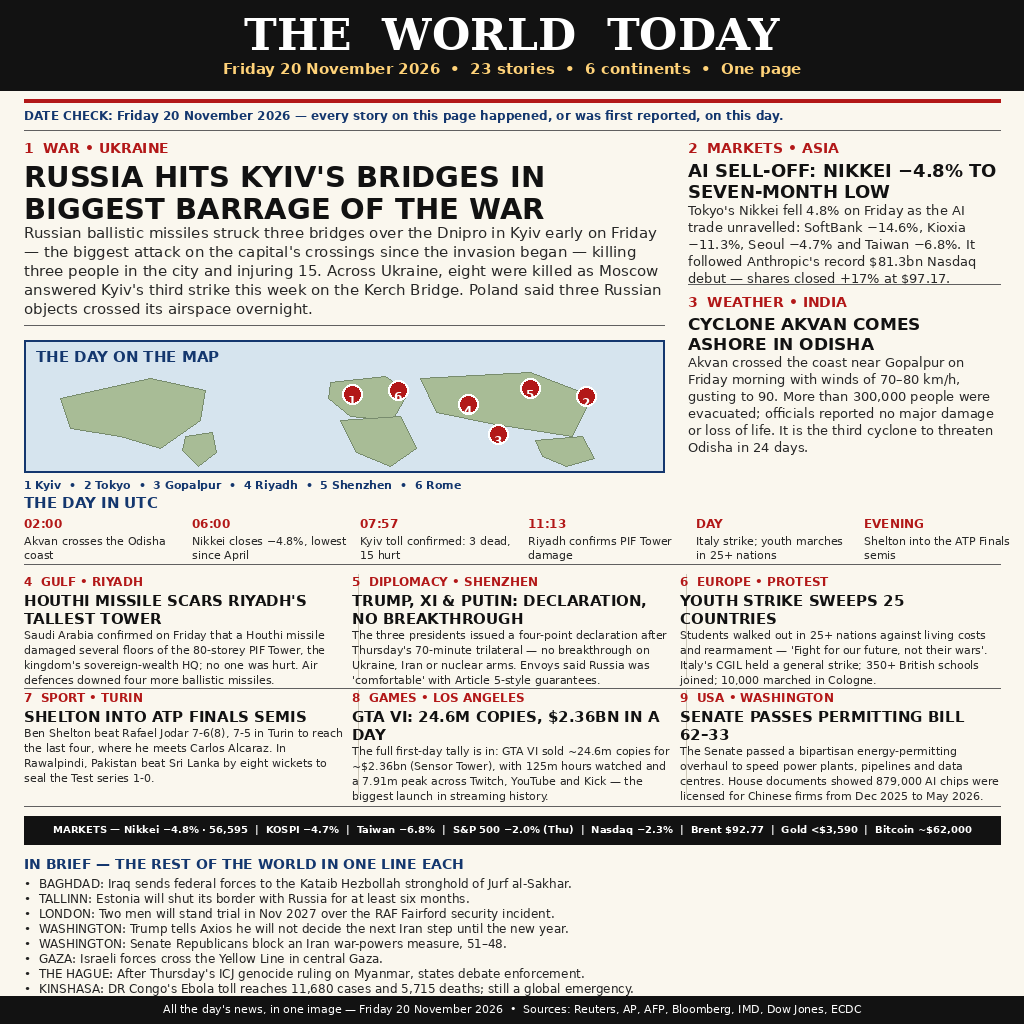
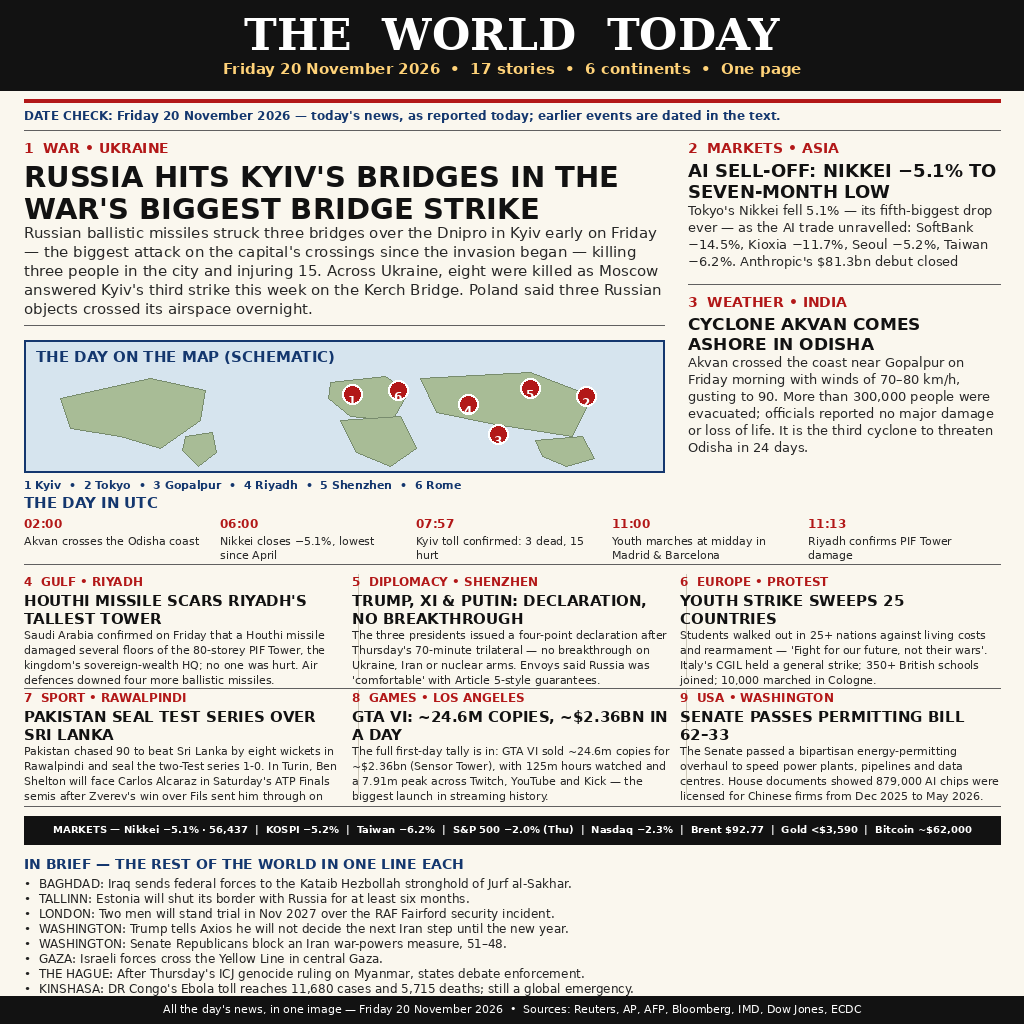
Fix QA findings: Nikkei close -5.1% (56,437), KOSPI -5.2%, Taiwan -6.2%; Pakistan sport lead; honest date check; 17 stories

diff --git a/generate.py b/generate.py
@@ -85,11 +85,11 @@ d = p.d
 # ---------------------------------------------------------------- masthead
 d.rectangle([0, 0, W, 90], fill=INK)
 p.text(W // 2, 8, "THE  WORLD  TODAY", font(SERIF_B, 44), (255, 255, 255), "ma")
-p.text(W // 2, 60, "Friday 20 November 2026  •  23 stories  •  6 continents  •  One page",
+p.text(W // 2, 60, "Friday 20 November 2026  •  17 stories  •  6 continents  •  One page",
        font(SANS_B, 15), (255, 210, 120), "ma")
 p.rule(24, W - 24, 100, RED, 4)
-p.text(24, 108, "DATE CHECK: Friday 20 November 2026 — every story on this page happened, "
-                 "or was first reported, on this day.",
+p.text(24, 108, "DATE CHECK: Friday 20 November 2026 — today's news, as reported today; "
+                 "earlier events are dated in the text.",
        font(SANS_B, 12), BLUE)
 p.rule(24, W - 24, 130, GREY, 1)
 
@@ -97,7 +97,7 @@ p.rule(24, W - 24, 130, GREY, 1)
 y = 140
 y = p.kicker(24, y, "1  WAR • UKRAINE")
 y = p.story(24, y, 640,
-            "RUSSIA HITS KYIV'S BRIDGES IN BIGGEST BARRAGE OF THE WAR",
+            "RUSSIA HITS KYIV'S BRIDGES IN THE WAR'S BIGGEST BRIDGE STRIKE",
             "Russian ballistic missiles struck three bridges over the Dnipro in Kyiv early "
             "on Friday — the biggest attack on the capital's crossings since the invasion "
             "began — killing three people in the city and injuring 15. Across Ukraine, "
@@ -110,11 +110,11 @@ rx = 688
 ry = 140
 ry = p.kicker(rx, ry, "2  MARKETS • ASIA")
 ry = p.story(rx, ry, 312,
-             "AI SELL-OFF: NIKKEI −4.8% TO SEVEN-MONTH LOW",
-             "Tokyo's Nikkei fell 4.8% on Friday as the AI trade unravelled: SoftBank "
-             "−14.6%, Kioxia −11.3%, Seoul −4.7% and Taiwan −6.8%. It followed "
-             "Anthropic's record $81.3bn Nasdaq debut — shares closed +17% at $97.17.",
-             hsize=18, bsize=13, max_body=5)
+             "AI SELL-OFF: NIKKEI −5.1% TO SEVEN-MONTH LOW",
+             "Tokyo's Nikkei fell 5.1% — its fifth-biggest drop ever — as the AI trade "
+             "unravelled: SoftBank −14.5%, Kioxia −11.7%, Seoul −5.2%, Taiwan −6.2%. "
+             "Anthropic's $81.3bn debut closed +17%.",
+             hsize=18, bsize=13, max_body=4)
 p.rule(rx, W - 24, 284, GREY, 1)
 ry = p.kicker(rx, 294, "3  WEATHER • INDIA")
 p.story(rx, ry, 312,
@@ -128,7 +128,7 @@ p.story(rx, ry, 312,
 # ---------------------------------------------------------------- map band
 my = 340
 d.rectangle([24, my, 664, my + 132], fill=MAP_BG, outline=BLUE, width=2)
-p.text(36, my + 8, "THE DAY ON THE MAP", font(SANS_B, 15), BLUE)
+p.text(36, my + 8, "THE DAY ON THE MAP (SCHEMATIC)", font(SANS_B, 15), BLUE)
 land_polys = [
     [(60, 398), (150, 378), (205, 390), (200, 420), (160, 448), (120, 436), (70, 428)],
     [(185, 436), (212, 432), (216, 452), (198, 466), (182, 450)],
@@ -158,20 +158,19 @@ ty = 494
 p.text(24, ty, "THE DAY IN UTC", font(SANS_B, 15), BLUE)
 timeline = [
     ("02:00", "Akvan crosses the Odisha coast"),
-    ("06:00", "Nikkei closes −4.8%, lowest since April"),
+    ("06:00", "Nikkei closes −5.1%, lowest since April"),
     ("07:57", "Kyiv toll confirmed: 3 dead, 15 hurt"),
+    ("11:00", "Youth marches at midday in Madrid & Barcelona"),
     ("11:13", "Riyadh confirms PIF Tower damage"),
-    ("DAY", "Italy strike; youth marches in 25+ nations"),
-    ("EVENING", "Shelton into the ATP Finals semis"),
 ]
 xx = 24
 for t, label in timeline:
     p.text(xx, ty + 22, t, font(SANS_B, 12), RED)
     ly = ty + 40
-    for ln in p.wrap(label, font(SANS, 11), 158):
+    for ln in p.wrap(label, font(SANS, 11), 185):
         p.text(xx, ly, ln, font(SANS, 11), (40, 40, 40))
         ly += 14
-    xx += 168
+    xx += 196
 p.rule(24, W - 24, ty + 70, GREY, 1)
 
 # ---------------------------------------------------------------- middle grid
@@ -190,11 +189,12 @@ grid = [
      "Students walked out in 25+ nations against living costs and rearmament — "
      "'Fight for our future, not their wars'. Italy's CGIL held a general strike; "
      "350+ British schools joined; 10,000 marched in Cologne."),
-    ("7  SPORT • TURIN", "SHELTON INTO ATP FINALS SEMIS",
-     "Ben Shelton beat Rafael Jodar 7-6(8), 7-5 in Turin to reach the last four, where "
-     "he meets Carlos Alcaraz. In Rawalpindi, Pakistan beat Sri Lanka by eight wickets "
-     "to seal the Test series 1-0."),
-    ("8  GAMES • LOS ANGELES", "GTA VI: 24.6M COPIES, $2.36BN IN A DAY",
+    ("7  SPORT • RAWALPINDI", "PAKISTAN SEAL TEST SERIES OVER SRI LANKA",
+     "Pakistan chased 90 to beat Sri Lanka by eight wickets in Rawalpindi and seal "
+     "the two-Test series 1-0. In Turin, Ben Shelton will face Carlos Alcaraz in "
+     "Saturday's ATP Finals semis after Zverev's win over Fils sent him through "
+     "on Thursday."),
+    ("8  GAMES • LOS ANGELES", "GTA VI: ~24.6M COPIES, ~$2.36BN IN A DAY",
      "The full first-day tally is in: GTA VI sold ~24.6m copies for ~$2.36bn "
      "(Sensor Tower), with 125m hours watched and a 7.91m peak across Twitch, "
      "YouTube and Kick — the biggest launch in streaming history."),
@@ -216,7 +216,7 @@ p.rule(24, W - 24, gy + 232, GREY, 1)
 # ---------------------------------------------------------------- markets strip
 my2 = gy + 242
 d.rectangle([24, my2, W - 24, my2 + 28], fill=INK)
-strip = ("MARKETS — Nikkei −4.8% · 56,595  |  KOSPI −4.7%  |  Taiwan −6.8%  |  "
+strip = ("MARKETS — Nikkei −5.1% · 56,437  |  KOSPI −5.2%  |  Taiwan −6.2%  |  "
          "S&P 500 −2.0% (Thu)  |  Nasdaq −2.3%  |  Brent $92.77  |  "
          "Gold <$3,590  |  Bitcoin ~$62,000")
 for sz in (12, 11, 10):

diff --git a/README.md b/README.md
@@ -11,17 +11,17 @@ Entry for make.fun bounty **news-image-20261120**: "Sum up 20 November's world n
 
 `generate.py` is the deterministic Pillow program that drew `news.png` from the headlines below.
 
-## Stories pictured (23)
-1. Russia hits three of Kyiv's Dnipro bridges in the biggest missile-and-drone barrage of the war: 400+ drones, 110+ missiles; 3 killed in Kyiv, 15 hurt, 8 dead across Ukraine; Poland's airspace violated
-2. AI sell-off: Nikkei −4.8% to a seven-month low; SoftBank −14.6%, Kioxia −11.3%, Seoul −4.7%, Taiwan −6.8%; Anthropic's record $81.3bn IPO closed +17% at $97.17
+## Stories pictured (17)
+1. Russia hits three of Kyiv's Dnipro bridges in the war's biggest bridge strike: 400+ drones, 110+ missiles; 3 killed in Kyiv, 15 hurt, 8 dead across Ukraine; Poland's airspace violated
+2. AI sell-off: Nikkei −5.1% to a seven-month low (fifth-biggest one-day drop ever); SoftBank −14.5%, Kioxia −11.7%, Seoul −5.2%, Taiwan −6.2%; Anthropic's record $81.3bn IPO closed +17% at $97.17
 3. Cyclone Akvan comes ashore near Gopalpur, Odisha: winds 70–80 km/h gusting to 90; 300,000+ evacuated; no major damage or loss of life reported
 4. Houthi missile damage to Riyadh's 80-storey PIF Tower confirmed; no injuries; four more ballistic missiles downed
 5. Trump, Xi & Putin issue a four-point declaration after a 70-minute trilateral — no breakthrough on Ukraine, Iran or nuclear arms
 6. Youth strike sweeps 25+ countries against living costs and rearmament; Italy's CGIL general strike; 350+ British schools walk out
-7. Sport: Ben Shelton beats Rafael Jodar 7-6(8), 7-5 into the ATP Finals semis; Pakistan seal the Test series over Sri Lanka 1-0
+7. Sport: Pakistan seal the Test series over Sri Lanka 1-0; Shelton faces Alcaraz in Saturday's ATP Finals semis
 8. GTA VI first-day tally: ~24.6m copies, ~$2.36bn, 125m hours watched, 7.91m peak concurrent viewers
 9. US Senate passes energy-permitting bill 62–33; 879,000 AI chips licensed for Chinese firms Dec 2025–May 2026
-Plus a UTC timeline of the day and 8 one-line briefs: Iraq, Estonia, RAF Fairford, Trump on Iran, Senate war-powers vote, Gaza, the ICJ Myanmar ruling, DR Congo Ebola.
+Plus a 5-slot UTC timeline of the day and 8 one-line briefs: Iraq, Estonia, RAF Fairford, Trump on Iran, Senate war-powers vote, Gaza, the ICJ Myanmar ruling, DR Congo Ebola.
 
 Sources checked 20 Nov 2026: Reuters, AP, AFP, Bloomberg, IMD, Dow Jones, ECDC, and daily briefings aggregating them. Every figure was cross-checked against a second source where possible; stories are dated to 20 November 2026 (events that happened, or were first reported, on that day).
 
